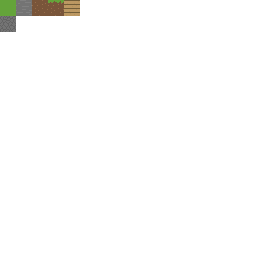
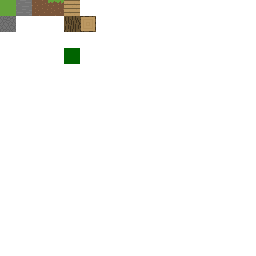
Add Log and Leaves blocks

Changed region(s): [[0.25, 0.0625, 0.375, 0.125], [0.25, 0.1875, 0.3125, 0.25]]

diff --git a/src/world/block.rs b/src/world/block.rs
@@ -6,6 +6,8 @@ pub enum Block {
     Dirt,
     Cobblestone,
     Planks,
+    Log,
+    Leaves,
 }
 
 impl Block {
@@ -17,6 +19,8 @@ impl Block {
             3 => Block::Dirt,
             4 => Block::Cobblestone,
             5 => Block::Planks,
+            17 => Block::Log,
+            18 => Block::Leaves,
             _ => return None,
         };
         Some(block)
@@ -30,6 +34,8 @@ impl Block {
             Block::Dirt => SolidBlockUv::all(2./16., 0.),
             Block::Cobblestone => SolidBlockUv::all(0., 1./16.),
             Block::Planks => SolidBlockUv::all(4./16., 0.),
+            Block::Log => SolidBlockUv::top_side_bottom(5./16., 1./16., 4./16., 1./16., 5./16., 1./16.),
+            Block::Leaves => SolidBlockUv::all(4./16., 3./16.),
         }
     }
 }
